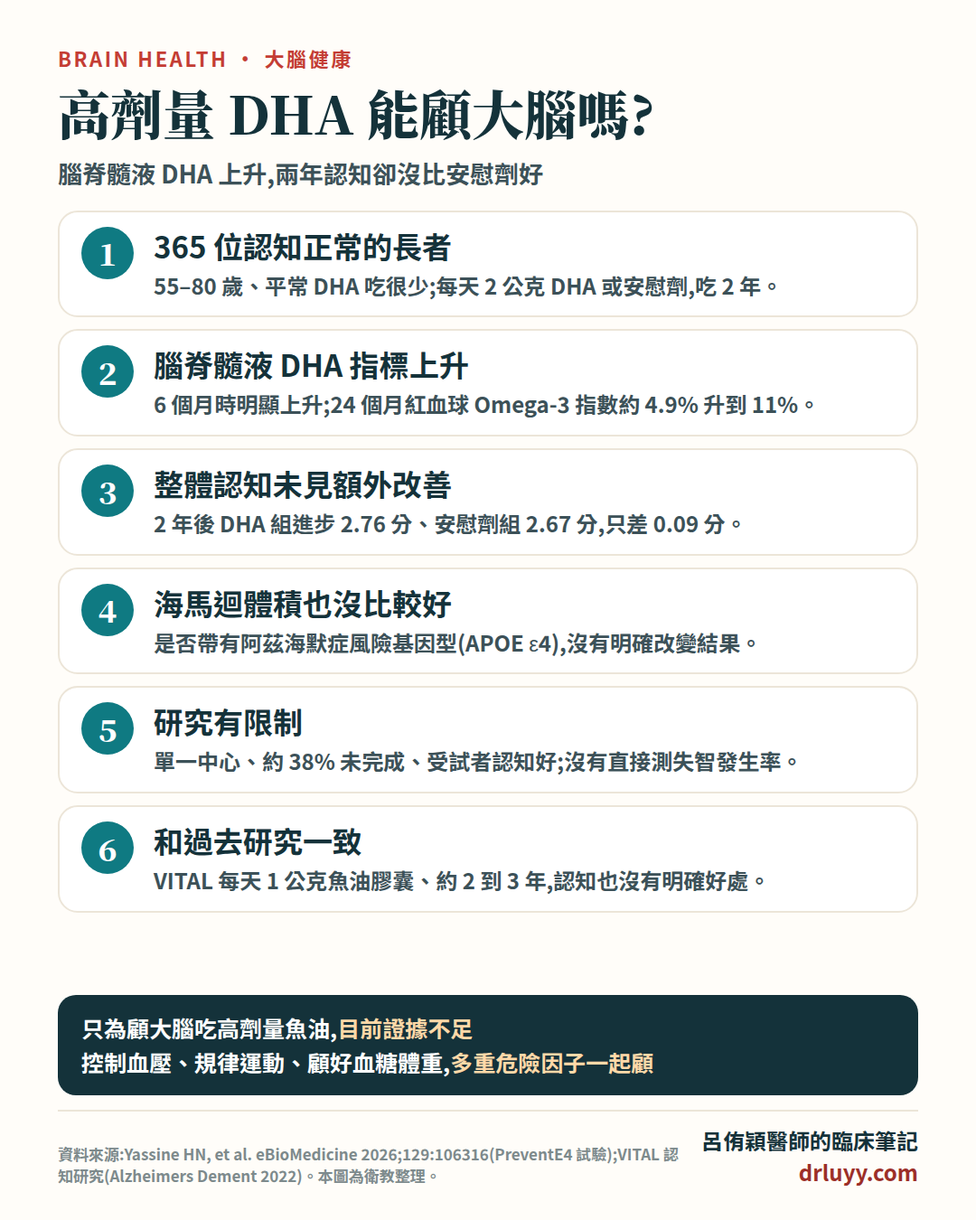
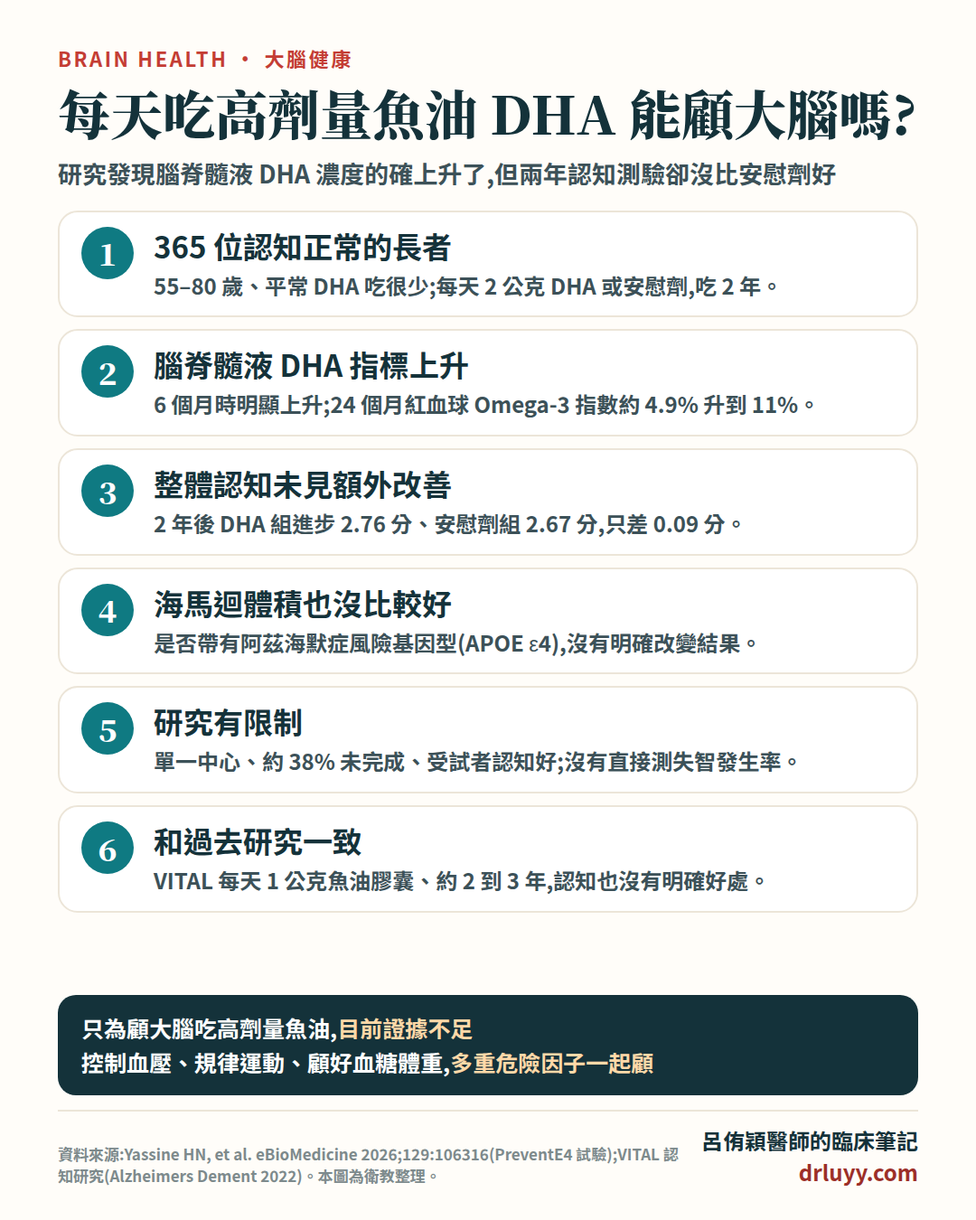
DHA 文章:依呂哥改標題與衛教卡副標

Changed region(s): [[0.0611, 0.0622, 0.9472, 0.1556]]

diff --git a/cholesterol.html b/cholesterol.html
@@ -22,7 +22,7 @@
 <meta name="twitter:image" content="https://drluyy.com/img/og/cholesterol.png">
 <link rel="icon" href="favicon.svg" type="image/svg+xml">
 <script type="application/ld+json">
-{"@context":"https://schema.org","@type":"CollectionPage","name":"膽固醇專區","url":"https://drluyy.com/cholesterol.html","inLanguage":"zh-TW","description":"壞膽固醇、三酸甘油酯、脂蛋白(a)是什麼,史他汀副作用與怎麼吃,飲食和魚油,加上最新研究與指南,依照看懂、治療、生活的順序整理在這裡。","hasPart":[{"@type":"WebPage","name":"膽固醇完整衛教","url":"https://drluyy.com/chol.html"},{"@type":"WebPage","name":"膽固醇是「累積」出來的","url":"https://drluyy.com/ldl-cumulative-exposure.html"},{"@type":"WebPage","name":"高三酸甘油酯血症","url":"https://drluyy.com/tg.html"},{"@type":"WebPage","name":"脂蛋白(a)是什麼?","url":"https://drluyy.com/lipoprotein-a.html"},{"@type":"WebPage","name":"載脂蛋白 B(apoB)","url":"https://drluyy.com/apob.html"},{"@type":"WebPage","name":"吃降膽固醇藥(史他汀)副作用很多?大型雙盲試驗告訴你:哪些是真的、哪些是誤會","url":"https://drluyy.com/posts/statin-side-effects.html"},{"@type":"WebPage","name":"肝指數高,還能吃降膽固醇藥嗎?","url":"https://drluyy.com/liver-statin.html"},{"@type":"WebPage","name":"70 歲以上還需要吃史他汀嗎？STAREE 試驗：長者一級預防，心血管事件降三成","url":"https://drluyy.com/posts/staree-statin-elderly-2026.html"},{"@type":"WebPage","name":"2026 血脂新指南：年紀大了，膽固醇還要不要積極控制？","url":"https://drluyy.com/posts/dyslipidemia-older-adults-2026.html"},{"@type":"WebPage","name":"膽固醇降太低,真的會失智嗎?把證據攤開來看","url":"https://drluyy.com/posts/cholesterol-dementia.html"},{"@type":"WebPage","name":"洗血能降膽固醇嗎?","url":"https://drluyy.com/ldl-apheresis.html"},{"@type":"WebPage","name":"生酮後膽固醇飆高,真的沒關係嗎?","url":"https://drluyy.com/posts/keto-ldl-lmhr.html"},{"@type":"WebPage","name":"魚油對心臟好不好?","url":"https://drluyy.com/fish-oil.html"},{"@type":"WebPage","name":"魚油到底能不能顧心臟？一個大試驗說能、一個說不能","url":"https://drluyy.com/posts/fish-oil-evidence.html"},{"@type":"WebPage","name":"魚油怎麼挑?看懂標籤 5 個數字——顧心臟、顧大腦各買哪種","url":"https://drluyy.com/posts/fish-oil-how-to-choose.html"},{"@type":"WebPage","name":"高劑量 DHA 進到腦脊髓液了,認知卻沒有更好:魚油顧大腦的最新隨機試驗","url":"https://drluyy.com/posts/dha-brain-dementia-trial.html"},{"@type":"WebPage","name":"哪些食物、保健品真的護心?","url":"https://drluyy.com/posts/cv-diet-supplement-evidence.html"},{"@type":"VideoObject","name":"70 歲以上,沒有心臟病,還要開始吃降膽固醇藥嗎?","description":"STAREE 試驗(NEJM 2026):9,971 位 70 歲以上能自理的長者,重大心血管事件少約三成,每治療 37 人約 6 年少 1 人發生;總死亡沒有顯著差異。要不要吃,和醫師一起討論。","thumbnailUrl":"https://drluyy.com/video/staree-statin-elderly-2026.jpg","uploadDate":"2026-10-10","embedUrl":"https://www.youtube.com/embed/mdWPaWRICuE"},{"@type":"VideoObject","name":"吃降膽固醇藥(史他汀),副作用很多?","description":"2026《刺胳針》彙整 12 萬多人雙盲試驗:轉胺酶升高每年約每 1,100 人多 1 人、尿蛋白約每 3,300 人、水腫約每 1,400 人多 1 人;肌肉症狀九成以上不是藥物造成;記憶、憂鬱、睡眠問題不支持是藥物造成。","thumbnailUrl":"https://drluyy.com/video/statin-side-effects.jpg","uploadDate":"2026-10-07","embedUrl":"https://www.youtube.com/embed/ObqJvSkbOhU"},{"@type":"VideoObject","name":"膽固醇的風險,是累積出來的","description":"壞膽固醇不只看多高,也看多久:濃度 × 年數 = 累積暴露。家族性高膽固醇血症從小偏高累積特別快;持續降膽固醇,保護隨時間增加(每降約 39 mg/dL,重大血管事件相對風險第 1 年約 12%、第 7 年約 29%)。現在開始也有用。","thumbnailUrl":"https://drluyy.com/video/ldl-cumulative-exposure.jpg","uploadDate":"2026-10-05","embedUrl":"https://www.youtube.com/embed/v6VvtDtNB6M"},{"@type":"VideoObject","name":"脂蛋白(a):藏在基因裡的隱形兇手","description":"不菸不酒、三高正常,為什麼還會早發心肌梗塞?脂蛋白(a) 幾乎由基因決定,成人一生至少驗一次;台灣檢驗參考值常抓 < 30 mg/dL。","thumbnailUrl":"https://drluyy.com/video/lipoprotein-a.jpg","uploadDate":"2026-10-01","embedUrl":"https://www.youtube.com/embed/NuIPrM_tmhw"},{"@type":"VideoObject","name":"魚油到底能不能顧心臟?50 多年的研究一次說清楚","description":"從格陵蘭的魚油神話、黃金年代、失落的十年,到高劑量 REDUCE-IT 與 STRENGTH 的大逆轉與礦物油爭議、心房顫動的代價,以及 2026 年血液透析病人的 PISCES 研究。EPA、DHA 差在哪?一般人該不該吃?10 分鐘說清楚。","thumbnailUrl":"https://drluyy.com/video/fish-oil-story.jpg","uploadDate":"2026-10-06","embedUrl":"https://www.youtube.com/embed/KcFZAurrV0c"},{"@type":"WebPage","name":"2026 ACC/AHA 血脂異常管理指南","url":"https://drluyy.com/posts/lipid.html"},{"@type":"WebPage","name":"超過一半「健康」成年人已有沉默的動脈硬化:REACT 研究(NEJM 2026)","url":"https://drluyy.com/posts/react-silent-atherosclerosis.html"},{"@type":"WebPage","name":"降 Lp(a) 能救心臟嗎？pelacarsen 第一個大型結果試驗踩了剎車","url":"https://drluyy.com/posts/pelacarsen-lpa-horizon-2026.html"},{"@type":"WebPage","name":"CORALreef 合併分析：Enlicitide 持久降脂","url":"https://drluyy.com/posts/coralreef.html"}]}
+{"@context":"https://schema.org","@type":"CollectionPage","name":"膽固醇專區","url":"https://drluyy.com/cholesterol.html","inLanguage":"zh-TW","description":"壞膽固醇、三酸甘油酯、脂蛋白(a)是什麼,史他汀副作用與怎麼吃,飲食和魚油,加上最新研究與指南,依照看懂、治療、生活的順序整理在這裡。","hasPart":[{"@type":"WebPage","name":"膽固醇完整衛教","url":"https://drluyy.com/chol.html"},{"@type":"WebPage","name":"膽固醇是「累積」出來的","url":"https://drluyy.com/ldl-cumulative-exposure.html"},{"@type":"WebPage","name":"高三酸甘油酯血症","url":"https://drluyy.com/tg.html"},{"@type":"WebPage","name":"脂蛋白(a)是什麼?","url":"https://drluyy.com/lipoprotein-a.html"},{"@type":"WebPage","name":"載脂蛋白 B(apoB)","url":"https://drluyy.com/apob.html"},{"@type":"WebPage","name":"吃降膽固醇藥(史他汀)副作用很多?大型雙盲試驗告訴你:哪些是真的、哪些是誤會","url":"https://drluyy.com/posts/statin-side-effects.html"},{"@type":"WebPage","name":"肝指數高,還能吃降膽固醇藥嗎?","url":"https://drluyy.com/liver-statin.html"},{"@type":"WebPage","name":"70 歲以上還需要吃史他汀嗎？STAREE 試驗：長者一級預防，心血管事件降三成","url":"https://drluyy.com/posts/staree-statin-elderly-2026.html"},{"@type":"WebPage","name":"2026 血脂新指南：年紀大了，膽固醇還要不要積極控制？","url":"https://drluyy.com/posts/dyslipidemia-older-adults-2026.html"},{"@type":"WebPage","name":"膽固醇降太低,真的會失智嗎?把證據攤開來看","url":"https://drluyy.com/posts/cholesterol-dementia.html"},{"@type":"WebPage","name":"洗血能降膽固醇嗎?","url":"https://drluyy.com/ldl-apheresis.html"},{"@type":"WebPage","name":"生酮後膽固醇飆高,真的沒關係嗎?","url":"https://drluyy.com/posts/keto-ldl-lmhr.html"},{"@type":"WebPage","name":"魚油對心臟好不好?","url":"https://drluyy.com/fish-oil.html"},{"@type":"WebPage","name":"魚油到底能不能顧心臟？一個大試驗說能、一個說不能","url":"https://drluyy.com/posts/fish-oil-evidence.html"},{"@type":"WebPage","name":"魚油怎麼挑?看懂標籤 5 個數字——顧心臟、顧大腦各買哪種","url":"https://drluyy.com/posts/fish-oil-how-to-choose.html"},{"@type":"WebPage","name":"每天吃高劑量魚油 DHA 能顧大腦嗎?","url":"https://drluyy.com/posts/dha-brain-dementia-trial.html"},{"@type":"WebPage","name":"哪些食物、保健品真的護心?","url":"https://drluyy.com/posts/cv-diet-supplement-evidence.html"},{"@type":"VideoObject","name":"70 歲以上,沒有心臟病,還要開始吃降膽固醇藥嗎?","description":"STAREE 試驗(NEJM 2026):9,971 位 70 歲以上能自理的長者,重大心血管事件少約三成,每治療 37 人約 6 年少 1 人發生;總死亡沒有顯著差異。要不要吃,和醫師一起討論。","thumbnailUrl":"https://drluyy.com/video/staree-statin-elderly-2026.jpg","uploadDate":"2026-10-10","embedUrl":"https://www.youtube.com/embed/mdWPaWRICuE"},{"@type":"VideoObject","name":"吃降膽固醇藥(史他汀),副作用很多?","description":"2026《刺胳針》彙整 12 萬多人雙盲試驗:轉胺酶升高每年約每 1,100 人多 1 人、尿蛋白約每 3,300 人、水腫約每 1,400 人多 1 人;肌肉症狀九成以上不是藥物造成;記憶、憂鬱、睡眠問題不支持是藥物造成。","thumbnailUrl":"https://drluyy.com/video/statin-side-effects.jpg","uploadDate":"2026-10-07","embedUrl":"https://www.youtube.com/embed/ObqJvSkbOhU"},{"@type":"VideoObject","name":"膽固醇的風險,是累積出來的","description":"壞膽固醇不只看多高,也看多久:濃度 × 年數 = 累積暴露。家族性高膽固醇血症從小偏高累積特別快;持續降膽固醇,保護隨時間增加(每降約 39 mg/dL,重大血管事件相對風險第 1 年約 12%、第 7 年約 29%)。現在開始也有用。","thumbnailUrl":"https://drluyy.com/video/ldl-cumulative-exposure.jpg","uploadDate":"2026-10-05","embedUrl":"https://www.youtube.com/embed/v6VvtDtNB6M"},{"@type":"VideoObject","name":"脂蛋白(a):藏在基因裡的隱形兇手","description":"不菸不酒、三高正常,為什麼還會早發心肌梗塞?脂蛋白(a) 幾乎由基因決定,成人一生至少驗一次;台灣檢驗參考值常抓 < 30 mg/dL。","thumbnailUrl":"https://drluyy.com/video/lipoprotein-a.jpg","uploadDate":"2026-10-01","embedUrl":"https://www.youtube.com/embed/NuIPrM_tmhw"},{"@type":"VideoObject","name":"魚油到底能不能顧心臟?50 多年的研究一次說清楚","description":"從格陵蘭的魚油神話、黃金年代、失落的十年,到高劑量 REDUCE-IT 與 STRENGTH 的大逆轉與礦物油爭議、心房顫動的代價,以及 2026 年血液透析病人的 PISCES 研究。EPA、DHA 差在哪?一般人該不該吃?10 分鐘說清楚。","thumbnailUrl":"https://drluyy.com/video/fish-oil-story.jpg","uploadDate":"2026-10-06","embedUrl":"https://www.youtube.com/embed/KcFZAurrV0c"},{"@type":"WebPage","name":"2026 ACC/AHA 血脂異常管理指南","url":"https://drluyy.com/posts/lipid.html"},{"@type":"WebPage","name":"超過一半「健康」成年人已有沉默的動脈硬化:REACT 研究(NEJM 2026)","url":"https://drluyy.com/posts/react-silent-atherosclerosis.html"},{"@type":"WebPage","name":"降 Lp(a) 能救心臟嗎？pelacarsen 第一個大型結果試驗踩了剎車","url":"https://drluyy.com/posts/pelacarsen-lpa-horizon-2026.html"},{"@type":"WebPage","name":"CORALreef 合併分析：Enlicitide 持久降脂","url":"https://drluyy.com/posts/coralreef.html"}]}
 </script>
 <link rel="preconnect" href="https://fonts.googleapis.com">
 <link rel="preconnect" href="https://fonts.gstatic.com" crossorigin>
@@ -212,7 +212,7 @@ gtag('config', 'G-BC1Z8X6BQT');
 <a class="card" href="posts/dha-brain-dementia-trial.html">
 <div class="card-header">
 <span class="card-tag news">醫療新知</span>
-<div class="card-title">高劑量 DHA 進到腦脊髓液了,認知卻沒有更好:魚油顧大腦的最新隨機試驗</div>
+<div class="card-title">每天吃高劑量魚油 DHA 能顧大腦嗎?</div>
 <div class="card-subtitle">吃 DHA 高的魚油能顧大腦嗎?2026 年一個隨機雙盲試驗,讓 365 位認知正常、飲食 DHA 很少的長者每天吃 2 公克 DHA 兩年,還抽腦脊髓液確認 DHA 到達了中樞神經——結果整體認知測驗、海馬迴體積都沒有比安慰劑好,是否帶有阿茲海默症風險基因也沒有改變結果。這篇整理研究怎麼做、為什麼「到得了卻沒看到效果」,以及想顧大腦該怎麼做。</div>
 </div>
 <div class="card-footer"><span class="read-btn">閱讀全文 &rarr;</span></div>

diff --git a/posts/dha-brain-dementia-trial.html b/posts/dha-brain-dementia-trial.html
@@ -3,12 +3,12 @@
 <head>
 <meta charset="UTF-8">
 <meta name="viewport" content="width=device-width, initial-scale=1.0">
-<title>高劑量 DHA 進到腦脊髓液了,認知卻沒有更好:魚油顧大腦的最新隨機試驗 — 呂侑穎醫師</title>
+<title>每天吃高劑量魚油 DHA 能顧大腦嗎? — 呂侑穎醫師</title>
 <meta name="description" content="吃 DHA 高的魚油能顧大腦嗎?2026 年一個隨機雙盲試驗,讓 365 位認知正常、飲食 DHA 很少的長者每天吃 2 公克 DHA 兩年,還抽腦脊髓液確認 DHA 到達了中樞神經——結果整體認知測驗、海馬迴體積都沒有比安慰劑好,是否帶有阿茲海默症風險基因也沒有改變結果。這篇整理研究怎麼做、為什麼">
 <meta name="author" content="呂侑穎醫師">
 <meta name="robots" content="index, follow">
 <link rel="canonical" href="https://drluyy.com/posts/dha-brain-dementia-trial.html">
-<meta property="og:title" content="高劑量 DHA 進到腦脊髓液了,認知卻沒有更好:魚油顧大腦的最新隨機試驗">
+<meta property="og:title" content="每天吃高劑量魚油 DHA 能顧大腦嗎?">
 <meta property="og:description" content="吃 DHA 高的魚油能顧大腦嗎?2026 年一個隨機雙盲試驗,讓 365 位認知正常、飲食 DHA 很少的長者每天吃 2 公克 DHA 兩年,還抽腦脊髓液確認 DHA 到達了中樞神經——結果整體認知測驗、海馬迴體積都沒有比安慰劑好,是否帶有阿茲海默症風險基因也沒有改變結果。這篇整理研究怎麼做、為什麼">
 <meta property="og:type" content="article">
 <meta property="og:url" content="https://drluyy.com/posts/dha-brain-dementia-trial.html">
@@ -21,7 +21,7 @@
 <meta name="twitter:image" content="https://drluyy.com/img/og/dha-brain-dementia-trial.png">
 <link rel="icon" href="../favicon.svg" type="image/svg+xml">
 <script type="application/ld+json">
-{"@context":"https://schema.org","@type":"MedicalWebPage","headline":"高劑量 DHA 進到腦脊髓液了,認知卻沒有更好:魚油顧大腦的最新隨機試驗","name":"高劑量 DHA 進到腦脊髓液了,認知卻沒有更好:魚油顧大腦的最新隨機試驗","description":"吃 DHA 高的魚油能顧大腦嗎?2026 年一個隨機雙盲試驗,讓 365 位認知正常、飲食 DHA 很少的長者每天吃 2 公克 DHA 兩年,還抽腦脊髓液確認 DHA 到達了中樞神經——結果整體認知測驗、海馬迴體積都沒有比安慰劑好,是否帶有阿茲海默症風險基因也沒有改變結果。這篇整理研究怎麼做、為什麼","url":"https://drluyy.com/posts/dha-brain-dementia-trial.html","inLanguage":"zh-TW","image":"https://drluyy.com/img/og/dha-brain-dementia-trial.png","author":{"@type":"Person","name":"呂侑穎","jobTitle":"心臟內科醫師","url":"https://drluyy.com/about.html","sameAs":["https://www.tahsda.org.tw/doctors/doctorcard.php?doctorid=058","https://www.threads.com/@aluminum001"]},"publisher":{"@type":"Organization","name":"台安醫院心臟內科。呂侑穎醫師。臨床筆記"},"dateModified":"2026-10-13","mainEntityOfPage":"https://drluyy.com/posts/dha-brain-dementia-trial.html","datePublished":"2026-10-13"}
+{"@context":"https://schema.org","@type":"MedicalWebPage","headline":"每天吃高劑量魚油 DHA 能顧大腦嗎?","name":"每天吃高劑量魚油 DHA 能顧大腦嗎?","description":"吃 DHA 高的魚油能顧大腦嗎?2026 年一個隨機雙盲試驗,讓 365 位認知正常、飲食 DHA 很少的長者每天吃 2 公克 DHA 兩年,還抽腦脊髓液確認 DHA 到達了中樞神經——結果整體認知測驗、海馬迴體積都沒有比安慰劑好,是否帶有阿茲海默症風險基因也沒有改變結果。這篇整理研究怎麼做、為什麼","url":"https://drluyy.com/posts/dha-brain-dementia-trial.html","inLanguage":"zh-TW","image":"https://drluyy.com/img/og/dha-brain-dementia-trial.png","author":{"@type":"Person","name":"呂侑穎","jobTitle":"心臟內科醫師","url":"https://drluyy.com/about.html","sameAs":["https://www.tahsda.org.tw/doctors/doctorcard.php?doctorid=058","https://www.threads.com/@aluminum001"]},"publisher":{"@type":"Organization","name":"台安醫院心臟內科。呂侑穎醫師。臨床筆記"},"dateModified":"2026-10-13","mainEntityOfPage":"https://drluyy.com/posts/dha-brain-dementia-trial.html","datePublished":"2026-10-13"}
 </script>
 <link rel="preconnect" href="https://fonts.googleapis.com">
 <link rel="preconnect" href="https://fonts.gstatic.com" crossorigin>
@@ -65,7 +65,7 @@ gtag('config', 'G-BC1Z8X6BQT');
 <a class="back-link" href="../index.html">&larr; 回到全部文章</a>
 <div class="article-head">
 <span class="card-tag news">醫療新知</span>
-<h1>高劑量 DHA 進到腦脊髓液了,認知卻沒有更好:魚油顧大腦的最新隨機試驗</h1>
+<h1>每天吃高劑量魚油 DHA 能顧大腦嗎?</h1>
 <div class="article-meta">
 <span>醫療新知</span>
 <span>eBioMedicine 2026 隨機雙盲試驗</span>
@@ -73,7 +73,7 @@ gtag('config', 'G-BC1Z8X6BQT');
 </div>
 <div class="content-card">
 <figure class="article-figure"><a href="../img/fig/dha-brain-6.png" target="_blank" rel="noopener"><img src="../img/fig/dha-brain-6.png" alt="高劑量 DHA 進到大腦,記憶卻沒有變好" width="1080" height="1350" loading="lazy"></a><figcaption>一張圖看懂高劑量 DHA 試驗(點圖看大圖、可存圖分享)</figcaption></figure>
-<div class="article-body">【醫療新知】高劑量 DHA 進到腦脊髓液了,認知卻沒有更好:魚油顧大腦的最新隨機試驗
+<div class="article-body">【醫療新知】每天吃高劑量魚油 DHA 能顧大腦嗎?
 
 ━━━━━━━━━━━━━━━━━━━━━━━
 
@@ -166,8 +166,8 @@ gtag('config', 'G-BC1Z8X6BQT');
 </div>
 <div class="hub-banner-wrap"><a class="hub-banner" href="../cholesterol.html"><span class="hb-kicker">收錄於專區</span><span class="hb-title">膽固醇專區</span><span class="hb-text">認識膽固醇、吃藥與副作用、飲食、最新研究,一次看</span><span class="hb-go">前往專區 &rarr;</span></a></div>
 <nav class="related-posts" aria-label="相關文章"><h2>相關文章</h2><ul>
-<li><a href="statin-side-effects.html">吃降膽固醇藥(史他汀)副作用很多?大型雙盲試驗告訴你:哪些是真的、哪些是誤會</a></li>
 <li><a href="fish-oil-evidence.html">魚油到底能不能顧心臟？一個大試驗說能、一個說不能</a></li>
+<li><a href="statin-side-effects.html">吃降膽固醇藥(史他汀)副作用很多?大型雙盲試驗告訴你:哪些是真的、哪些是誤會</a></li>
 <li><a href="keto-ldl-lmhr.html">生酮後膽固醇飆高,真的沒關係嗎?</a></li>
 <li><a href="cholesterol-dementia.html">膽固醇降太低,真的會失智嗎?把證據攤開來看</a></li>
 </ul></nav>
@@ -183,7 +183,7 @@ gtag('config', 'G-BC1Z8X6BQT');
 <section class="comments-wrap">
 <h2 class="comments-title">留言與回饋</h2>
 <p class="comments-note">歡迎在下方留下你的想法或問題，留言經審核後才會公開顯示。<strong>提醒：本區不提供個別診療，個人病情請就醫或掛號諮詢。</strong></p>
-<div id="cusdis_thread" data-host="https://cusdis.com" data-app-id="0587d292-27ab-4082-bc76-15c0cd50293d" data-page-id="https://drluyy.com/posts/dha-brain-dementia-trial.html" data-page-url="https://drluyy.com/posts/dha-brain-dementia-trial.html" data-page-title="高劑量 DHA 進到腦脊髓液了,認知卻沒有更好:魚油顧大腦的最新隨機試驗"></div>
+<div id="cusdis_thread" data-host="https://cusdis.com" data-app-id="0587d292-27ab-4082-bc76-15c0cd50293d" data-page-id="https://drluyy.com/posts/dha-brain-dementia-trial.html" data-page-url="https://drluyy.com/posts/dha-brain-dementia-trial.html" data-page-title="每天吃高劑量魚油 DHA 能顧大腦嗎?"></div>
 <script async defer src="https://cusdis.com/js/cusdis.es.js"></script>
 </section>
 

diff --git a/posts/fish-oil-evidence.html b/posts/fish-oil-evidence.html
@@ -144,7 +144,7 @@ Omega-3 最有名的兩個試驗，結論剛好相反：
 <div class="hub-banner-wrap"><a class="hub-banner" href="../cholesterol.html"><span class="hb-kicker">收錄於專區</span><span class="hb-title">膽固醇專區</span><span class="hb-text">認識膽固醇、吃藥與副作用、飲食、最新研究,一次看</span><span class="hb-go">前往專區 &rarr;</span></a></div>
 <nav class="related-posts" aria-label="相關文章"><h2>相關文章</h2><ul>
 <li><a href="fish-oil-how-to-choose.html">魚油怎麼挑?看懂標籤 5 個數字——顧心臟、顧大腦各買哪種</a></li>
-<li><a href="dha-brain-dementia-trial.html">高劑量 DHA 進到腦脊髓液了,認知卻沒有更好:魚油顧大腦的最新隨機試驗</a></li>
+<li><a href="dha-brain-dementia-trial.html">每天吃高劑量魚油 DHA 能顧大腦嗎?</a></li>
 <li><a href="pelacarsen-lpa-horizon-2026.html">降 Lp(a) 能救心臟嗎？pelacarsen 第一個大型結果試驗踩了剎車</a></li>
 <li><a href="staree-statin-elderly-2026.html">70 歲以上還需要吃史他汀嗎？STAREE 試驗：長者一級預防，心血管事件降三成</a></li>
 </ul></nav>

diff --git a/posts/statin-side-effects.html b/posts/statin-side-effects.html
@@ -226,7 +226,7 @@ gtag('config', 'G-BC1Z8X6BQT');
 </div>
 <div class="hub-banner-wrap"><a class="hub-banner" href="../cholesterol.html"><span class="hb-kicker">收錄於專區</span><span class="hb-title">膽固醇專區</span><span class="hb-text">認識膽固醇、吃藥與副作用、飲食、最新研究,一次看</span><span class="hb-go">前往專區 &rarr;</span></a></div>
 <nav class="related-posts" aria-label="相關文章"><h2>相關文章</h2><ul>
-<li><a href="dha-brain-dementia-trial.html">高劑量 DHA 進到腦脊髓液了,認知卻沒有更好:魚油顧大腦的最新隨機試驗</a></li>
+<li><a href="dha-brain-dementia-trial.html">每天吃高劑量魚油 DHA 能顧大腦嗎?</a></li>
 <li><a href="keto-ldl-lmhr.html">生酮後膽固醇飆高,真的沒關係嗎?</a></li>
 <li><a href="staree-statin-elderly-2026.html">70 歲以上還需要吃史他汀嗎？STAREE 試驗：長者一級預防，心血管事件降三成</a></li>
 <li><a href="cv-diet-supplement-evidence.html">哪些食物、保健品真的護心?</a></li>

diff --git a/posts/cholesterol-dementia.html b/posts/cholesterol-dementia.html
@@ -163,7 +163,7 @@ EBBINGHAUS 試驗(NEJM 2017)就是為此設計的。它在 1,204 位病人身上
 <div class="hub-banner-wrap"><a class="hub-banner" href="../cholesterol.html"><span class="hb-kicker">收錄於專區</span><span class="hb-title">膽固醇專區</span><span class="hb-text">認識膽固醇、吃藥與副作用、飲食、最新研究,一次看</span><span class="hb-go">前往專區 &rarr;</span></a></div>
 <nav class="related-posts" aria-label="相關文章"><h2>相關文章</h2><ul>
 <li><a href="keto-ldl-lmhr.html">生酮後膽固醇飆高,真的沒關係嗎?</a></li>
-<li><a href="dha-brain-dementia-trial.html">高劑量 DHA 進到腦脊髓液了,認知卻沒有更好:魚油顧大腦的最新隨機試驗</a></li>
+<li><a href="dha-brain-dementia-trial.html">每天吃高劑量魚油 DHA 能顧大腦嗎?</a></li>
 <li><a href="coralreef.html">CORALreef 合併分析：Enlicitide 持久降脂</a></li>
 <li><a href="cv-diet-supplement-evidence.html">哪些食物、保健品真的護心?</a></li>
 </ul></nav>

diff --git a/index.html b/index.html
@@ -199,7 +199,7 @@ gtag('config', 'G-BC1Z8X6BQT');
 <a class="card" href="posts/dha-brain-dementia-trial.html">
 <div class="card-header">
 <span class="card-tag news">醫療新知</span>
-<div class="card-title">高劑量 DHA 進到腦脊髓液了,認知卻沒有更好:魚油顧大腦的最新隨機試驗</div>
+<div class="card-title">每天吃高劑量魚油 DHA 能顧大腦嗎?</div>
 <div class="card-subtitle">吃 DHA 高的魚油能顧大腦嗎?2026 年一個隨機雙盲試驗,讓 365 位認知正常、飲食 DHA 很少的長者每天吃 2 公克 DHA 兩年,還抽腦脊髓液確認 DHA 到達了中樞神經——結果整體認知測驗、海馬迴體積都沒有比安慰劑好,是否帶有阿茲海默症風險基因也沒有改變結果。這篇整理研究怎麼做、為什麼「到得了卻沒看到效果」,以及想顧大腦該怎麼做。</div>
 <div class="card-meta"><span>醫療新知</span><span>eBioMedicine 2026 隨機雙盲試驗</span></div>
 </div>

diff --git a/posts.html b/posts.html
@@ -72,7 +72,7 @@ gtag('config', 'G-BC1Z8X6BQT');
 <a class="card" href="posts/dha-brain-dementia-trial.html">
 <div class="card-header">
 <span class="card-tag news">醫療新知</span>
-<div class="card-title">高劑量 DHA 進到腦脊髓液了,認知卻沒有更好:魚油顧大腦的最新隨機試驗</div>
+<div class="card-title">每天吃高劑量魚油 DHA 能顧大腦嗎?</div>
 <div class="card-subtitle">吃 DHA 高的魚油能顧大腦嗎?2026 年一個隨機雙盲試驗,讓 365 位認知正常、飲食 DHA 很少的長者每天吃 2 公克 DHA 兩年,還抽腦脊髓液確認 DHA 到達了中樞神經——結果整體認知測驗、海馬迴體積都沒有比安慰劑好,是否帶有阿茲海默症風險基因也沒有改變結果。這篇整理研究怎麼做、為什麼「到得了卻沒看到效果」,以及想顧大腦該怎麼做。</div>
 <div class="card-meta"><span>醫療新知</span><span>eBioMedicine 2026 隨機雙盲試驗</span></div>
 </div>

diff --git a/news.html b/news.html
@@ -74,7 +74,7 @@ gtag('config', 'G-BC1Z8X6BQT');
 <a class="card" href="posts/dha-brain-dementia-trial.html">
 <div class="card-header">
 <span class="card-tag news">醫療新知</span>
-<div class="card-title">高劑量 DHA 進到腦脊髓液了,認知卻沒有更好:魚油顧大腦的最新隨機試驗</div>
+<div class="card-title">每天吃高劑量魚油 DHA 能顧大腦嗎?</div>
 <div class="card-subtitle">吃 DHA 高的魚油能顧大腦嗎?2026 年一個隨機雙盲試驗,讓 365 位認知正常、飲食 DHA 很少的長者每天吃 2 公克 DHA 兩年,還抽腦脊髓液確認 DHA 到達了中樞神經——結果整體認知測驗、海馬迴體積都沒有比安慰劑好,是否帶有阿茲海默症風險基因也沒有改變結果。這篇整理研究怎麼做、為什麼「到得了卻沒看到效果」,以及想顧大腦該怎麼做。</div>
 <div class="card-meta">
 <span>醫療新知</span>

diff --git a/trials.html b/trials.html
@@ -74,7 +74,7 @@ gtag('config', 'G-BC1Z8X6BQT');
 <a class="card" href="posts/dha-brain-dementia-trial.html">
 <div class="card-header">
 <span class="card-tag news">醫療新知</span>
-<div class="card-title">高劑量 DHA 進到腦脊髓液了,認知卻沒有更好:魚油顧大腦的最新隨機試驗</div>
+<div class="card-title">每天吃高劑量魚油 DHA 能顧大腦嗎?</div>
 <div class="card-subtitle">吃 DHA 高的魚油能顧大腦嗎?2026 年一個隨機雙盲試驗,讓 365 位認知正常、飲食 DHA 很少的長者每天吃 2 公克 DHA 兩年,還抽腦脊髓液確認 DHA 到達了中樞神經——結果整體認知測驗、海馬迴體積都沒有比安慰劑好,是否帶有阿茲海默症風險基因也沒有改變結果。這篇整理研究怎麼做、為什麼「到得了卻沒看到效果」,以及想顧大腦該怎麼做。</div>
 <div class="card-meta">
 <span>醫療新知</span>

diff --git a/posts/edible-birds-nest.html b/posts/edible-birds-nest.html
@@ -257,9 +257,9 @@ gtag('config', 'G-BC1Z8X6BQT');
 </div>
 
 <nav class="related-posts" aria-label="相關文章"><h2>相關文章</h2><ul>
-<li><a href="dha-brain-dementia-trial.html">高劑量 DHA 進到腦脊髓液了,認知卻沒有更好:魚油顧大腦的最新隨機試驗</a></li>
 <li><a href="flavonoid-vascular.html">多吃類黃酮食物,對血管有幫助嗎?茶、莓果、可可的研究怎麼說</a></li>
 <li><a href="glp1-sleep-apnea.html">瘦瘦針能改善睡眠呼吸中止嗎?打呼、心臟與最新研究一次看懂</a></li>
+<li><a href="dha-brain-dementia-trial.html">每天吃高劑量魚油 DHA 能顧大腦嗎?</a></li>
 <li><a href="statin-side-effects.html">吃降膽固醇藥(史他汀)副作用很多?大型雙盲試驗告訴你:哪些是真的、哪些是誤會</a></li>
 </ul></nav>
 </div>

diff --git a/posts/calorie-restriction-longevity.html b/posts/calorie-restriction-longevity.html
@@ -188,7 +188,7 @@ gtag('config', 'G-BC1Z8X6BQT');
 <nav class="related-posts" aria-label="相關文章"><h2>相關文章</h2><ul>
 <li><a href="mced-blood-cancer-screening.html">抽一管血篩多種癌症,能減少晚期癌症嗎?14 萬人大型試驗 NHS-Galleri 結果</a></li>
 <li><a href="glp1-sleep-apnea.html">瘦瘦針能改善睡眠呼吸中止嗎?打呼、心臟與最新研究一次看懂</a></li>
-<li><a href="dha-brain-dementia-trial.html">高劑量 DHA 進到腦脊髓液了,認知卻沒有更好:魚油顧大腦的最新隨機試驗</a></li>
+<li><a href="dha-brain-dementia-trial.html">每天吃高劑量魚油 DHA 能顧大腦嗎?</a></li>
 <li><a href="coffee-liver.html">喝咖啡護肝是真的嗎?35 萬人研究:常喝咖啡的人,肝硬化、肝癌風險較低</a></li>
 </ul></nav>
 </div>
